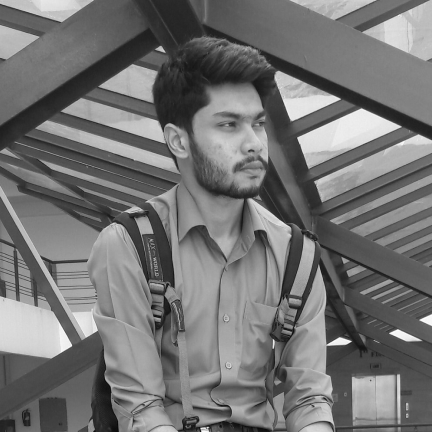
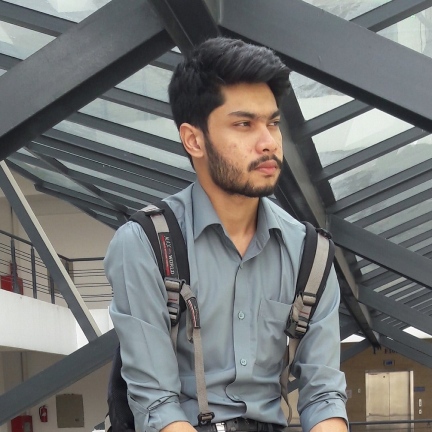
about section

diff --git a/components/Projects.jsx b/components/Projects.jsx
@@ -6,18 +6,22 @@ import { AiOutlineArrowRight } from "react-icons/ai";
 const Projects = () => {
   const projects = [{
     name: 'tsushima-production',
+    title: 'manufacturer website',
     thumb: '/image/project1_ss.png',
+    short_desc: 'A website of a bicycle parts manufacturing company. ',
     link: 'https://tsushima-corporation.web.app',
     bg: 'bg-purple-200',
     _id: '001'
   }, {
-    name: 'offshore-stockroom',
+    name: 'offshore-stockroom', title: 'warehouse management website',
     thumb: '/image/project2_ss.png',
+    short_desc: 'A website of warehouse management company',
     link: 'https://offshore-stockroom.web.app',
     bg: 'bg-orange-200', _id: '002'
   }, {
-    name: 'font-bey',
+    name: 'font-bey', title: 'font searching website',
     thumb: '/image/project3_ss.png',
+    short_desc: 'A website for searching different fonts for web',
     link: 'https://fontbey.netlify.app/',
     bg: 'bg-blue-200', _id: '003'
   }]
@@ -35,8 +39,8 @@ const Projects = () => {
                 <Image src={project.thumb} layout='fill' alt='project2' />
               </div>
               <div className='bg-black text-white absolute top-full h-full w-full group-hover:top-0 transition-all ease-out duration-500 p-8 gap-y-4 flex flex-col'>
-                <h2>Manufacturer website</h2>
-                <p>Lorem ipsum, dolor sit amet consectetur adipisicing elit. Quod illum libero quibusdam doloribus ea repudiandae eos ipsum vitae, rerum unde.</p>
+                <h2>{project.title}</h2>
+                <p>{project.short_desc}</p>
                 <div className='flex justify-center mt-8'>
                   <Link href={`/projects/${project.name}`}>
                     <button className='w-12 h-12 rounded-full border border-white text-2xl flex justify-center items-center mt-8'><AiOutlineArrowRight /></button>

diff --git a/pages/about.jsx b/pages/about.jsx
@@ -1,17 +1,18 @@
 import React from 'react'
-
-const about = ({ data: users }) => {
+import Link from 'next/link'
+const about = () => {
 
   return (
-    <div>{users.length}</div>
-  )
-}
+    <div className='w-3/5 mx-auto'>
+      <h2 className='relative font-garet text-4xl before:content-[""] before:w-20 before:h-[2px] before:bg-purple-400 before:absolute before:-bottom-2'>Sabbir Ahmed</h2>
+      <p className='mt-4'>I am Sabbir Ahmed. A mern-stack developer with 1 year of development experince with 5 projects. I have been dedicated myself in this field to make creative websites to build a better experience for online world.</p>
 
-export async function getServerSideProps(context) {
-  const res = await fetch('https://jsonplaceholder.typicode.com/users')
-  const data = await res.json()
-  return {
-    props: { data },
-  }
+      <h3 className='relative text-2xl font-garet mt-8 before:content-[""] before:w-12 before:h-[2px] before:bg-purple-400 before:absolute before:-bottom-2'>Backgroud</h3>
+      <p className='mt-4'>country : Bangladesh</p>
+      <p>education : Brac University</p>
+      <p>linkedIn : <Link href='https://www.linkedin.com/in/sabbir-ahmed-sa/'><a target='_blank' className='underline'>sabbir-ahmed-sa</a></Link></p>
+      <p>github : <Link href='https://github.com/sabbir-dcy?tab=repositories'><a target='_blank' className='underline'>sabbir-dcy</a></Link></p>
+    </div >
+  )
 }
 export default about

diff --git a/components/Hero.jsx b/components/Hero.jsx
@@ -14,11 +14,12 @@ const Hero = () => {
         </div>
       </div>
       <div className='md:w-[400px] bg-black text-white p-12 relative'>
-        <div className='absolute w-[100px] h-[100px] md:w-[140px] md:h-[140px] md:-top-20 md:-left-20 -top-12 -right-12 transition-all ease-out duration-500 hover:w-[200px] hover:h-[200px]'>
-          <Image className='rounded-full' src='/image/dp.png' alt='dp' layout='fill' />
+        <div className='group absolute w-[100px] h-[100px] md:w-[140px] md:h-[140px] md:-top-20 md:-left-20 -top-12 -right-12 transition-all ease-out duration-500 hover:w-[200px] hover:h-[200px] overflow-hidden rounded-full'>
+          <Image className='grayscale group-hover:grayscale-0 delay-300' src='/image/dp.png' alt='dp' layout='fill' />
+          <div className='w-full h-full bg-black absolute -left-full group-hover:left-full transition-all duration-[800ms]'></div>
         </div>
-        <h2 className='text-4xl font-ogg mb-2'>About Me</h2>
-        <p>Hi! I am Sabbir Ahmed, a mern stack developer with 1 year of experince in web development field. My area of expertise are react, node, tailwind, firebase and mongodb</p>
+        <h2 className='text-4xl font-ogg mb-2'>Hi!</h2>
+        <p>I am Sabbir Ahmed, a mern stack developer with 1 year of experince in web development field. My area of expertise are react, node, tailwind, firebase and mongodb</p>
       </div>
     </div>
   )

diff --git a/pages/api/projects.js b/pages/api/projects.js
@@ -59,7 +59,12 @@ export default async function handler(req, res) {
       name: 'font-bey',
       title: 'font searching website',
       link: 'https://fontbey.netlify.app/',
-      desc: [{ feature: 'hello world' }],
+      desc: [
+        {
+          feature:
+            'Search google fonts. Search fonts by category also possible. Can copy single font url for css or user can add multipe fonts link to cart. Then copy the merged url',
+        },
+      ],
       bg: 'bg-blue-200',
       _id: '003',
     },

diff --git a/components/Navbar.jsx b/components/Navbar.jsx
@@ -13,9 +13,6 @@ const Navbar = () => {
       </div>
       <div className='space-x-12'>
         <Link href={'/'} ><a className={`${pathname === '/' && ' border-b-2 border-black'} `}>Home</a></Link>
-        <Link href={'#skills'}><a>Skills</a></Link>
-        <Link href={'#projects'}><a>Projects</a></Link>
-        <Link href={'#contact'}><a>Contact</a></Link>
         <Link href={'/about'}><a className={`${pathname === '/about' && ' border-b-2 border-black'} `}>About</a></Link>
       </div>
     </div>

diff --git a/components/CustomCursor.jsx b/components/CustomCursor.jsx
@@ -19,9 +19,11 @@ const CustomCursor = () => {
     })
   }, [])
   return (
-    <><div className={styles.cursor} ref={cursorRef}>
-    </div>
-      <div className={styles.cursor__s} ref={cursorSRef}></div></>
+    <>
+      <div className={styles.cursor} ref={cursorRef}>
+      </div>
+      <div className={styles.cursor__s} ref={cursorSRef}></div>
+    </>
   )
 }
 

diff --git a/styles/globals.css b/styles/globals.css
@@ -7,9 +7,6 @@ html {
   cursor: none;
 }
 
-button,a {
-  cursor: none;
-}
 body {
   font-family: 'poppins', sans-serif;
   font-size: 14px;

diff --git a/pages/projects/[Slug].jsx b/pages/projects/[Slug].jsx
@@ -32,7 +32,6 @@ export async function getServerSideProps(context) {
     props: { data },
 
   }
-
 }
 
 export default Slug
